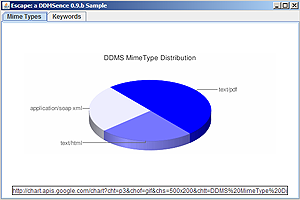
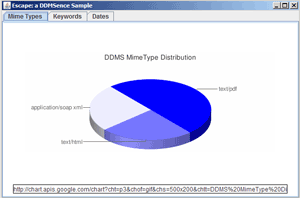
#11: Removing version numbers from samples and screenshots.

diff --git a/src/samples/buri/ddmsence/samples/util/AbstractSample.java b/src/samples/buri/ddmsence/samples/util/AbstractSample.java
@@ -66,8 +66,7 @@ public abstract class AbstractSample implements ActionListener {
 	protected static final String FILE = "File";
 	protected static final String OPEN = "Open...";
 	protected static final String EXIT = "Exit";
-
-	protected static final String VERSION = PropertyReader.getProperty("version");
+	
 	protected static final String SAMPLE_DIR = PropertyReader.getProperty("sample.data");
 	
 	/**
@@ -106,7 +105,7 @@ public abstract class AbstractSample implements ActionListener {
 		JPanel contentPane = new JPanel(new BorderLayout());
 		if (!Util.isEmpty(getDefaultInstructions()))
 			contentPane.add(new JLabel(getDefaultInstructions(), JLabel.CENTER), BorderLayout.CENTER);
-		JFrame frame = new JFrame(title + ": a DDMSence " + VERSION + " Sample");
+		JFrame frame = new JFrame(title + ": a DDMSence Sample");
 		frame.setSize(size);
 		frame.setPreferredSize(size);
 		if (hasFileMenu)

diff --git a/src/samples/buri/ddmsence/samples/Escort.java b/src/samples/buri/ddmsence/samples/Escort.java
@@ -92,7 +92,6 @@ import buri.ddmsence.util.PropertyReader;
 public class Escort {
 
 	private static final BufferedReader INPUT_STREAM = new BufferedReader(new InputStreamReader(System.in));
-	private static final String VERSION = PropertyReader.getProperty("version");
 	private static final String SAMPLE_DIR = PropertyReader.getProperty("sample.data");
 	
 	/**
@@ -120,7 +119,7 @@ public class Escort {
 	 * The main execution loop of the program
 	 */
 	private void run() throws IOException {
-		println("Escort: a DDMSence " + VERSION + " Sample\n");
+		println("Escort: a DDMSence Sample\n");
 		
 		println("This program allows you to build a DDMS resource from scratch.");
 		println("If you do not know how to answer a question, a suggested valid answer is provided in square brackets.\nHowever, this is not a default value (hitting Enter will answer the question with an empty string).\n\n");
